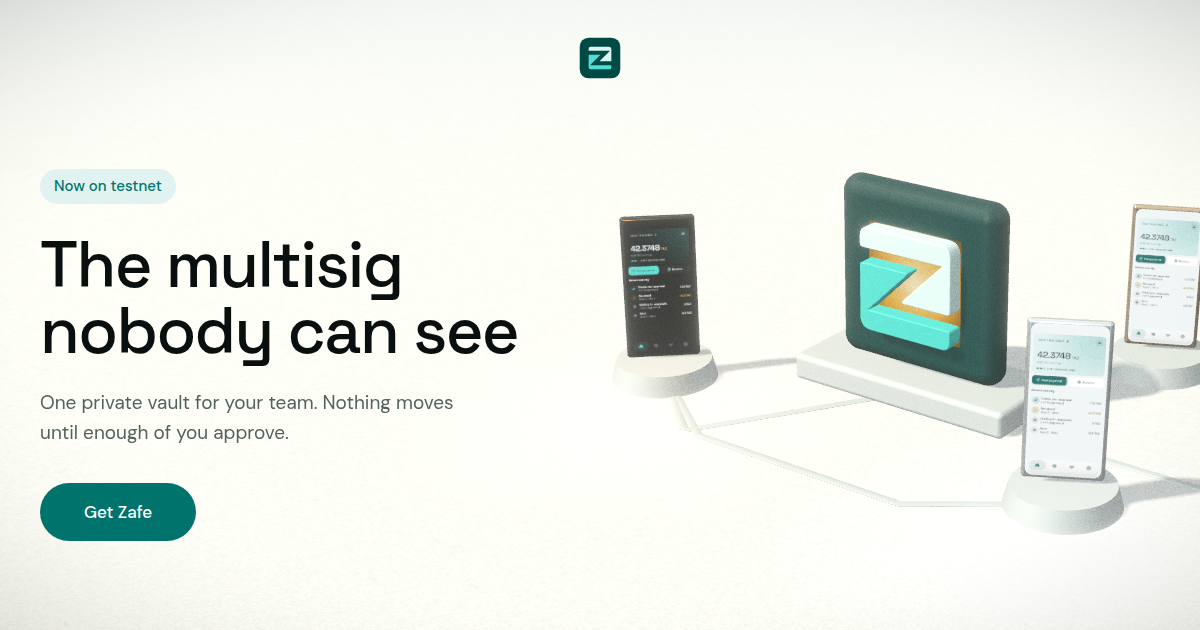
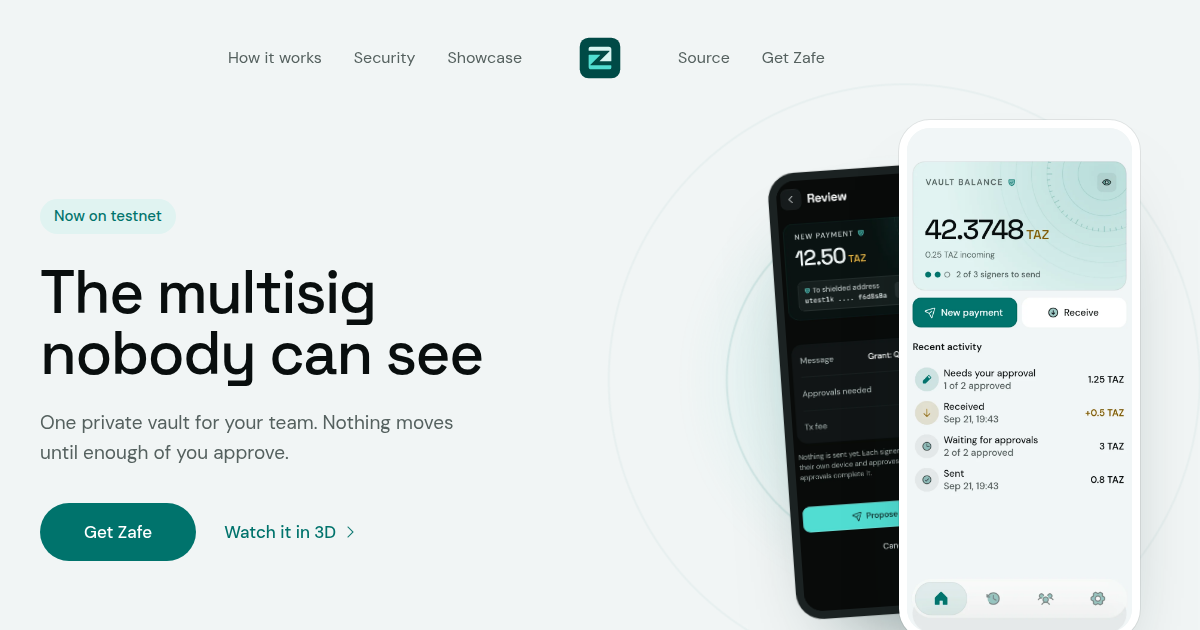
Site: round 12b, hero phones overlap at every width, new share image
The back phone hangs off the front one, so they never stand side by
side; og.png is the home hero; phone fixes for the teaser and the
comparison; teal only for Zafe's column.

diff --git a/infra/site/src/styles/site.css b/infra/site/src/styles/site.css
@@ -1013,7 +1013,9 @@ html.still-page .home .nav-side { visibility: hidden !important; }
 .lp-more .icon { width: 16px; height: 16px; transition: transform 0.2s var(--rise, ease); }
 .lp-more:hover .icon { transform: translateX(3px); }
 
-.lp-hero-art { position: relative; height: min(680px, calc(100vh - 160px)); min-height: 520px; }
+/* --ph is the front phone's height; the back phone hangs off it, so the overlap is the
+   same at every width (never two phones side by side). */
+.lp-hero-art { --ph: clamp(520px, calc(100vh - 160px), 680px); position: relative; height: var(--ph); }
 .lp-dial {
   position: absolute;
   left: 50%;
@@ -1028,9 +1030,9 @@ html.still-page .home .nav-side { visibility: hidden !important; }
   -webkit-mask-image: radial-gradient(circle, #000 30%, transparent 68%);
   mask-image: radial-gradient(circle, #000 30%, transparent 68%);
 }
-.lp-hero-art .lp-phone { position: absolute; height: 100%; width: auto; }
-.lp-phone-front { right: 4%; top: 0; z-index: 1; }
-.lp-phone-back { left: 2%; top: 9%; height: 86% !important; opacity: 0.96; }
+.lp-hero-art .lp-phone { position: absolute; width: auto; }
+.lp-phone-front { right: 4%; top: 0; height: var(--ph); z-index: 1; }
+.lp-phone-back { right: calc(4% + var(--ph) * 0.29); top: 9%; height: calc(var(--ph) * 0.86); rotate: -4deg; }
 
 /* At a glance: facts, not numbers we don't have. */
 .lp-facts {
@@ -1184,7 +1186,8 @@ html.still-page .home .nav-side { visibility: hidden !important; }
 .lp-compare .us { background: #E0F3F1; }
 .lp-compare thead .us { color: var(--brand); font-family: var(--display); font-size: 20px; border-radius: 20px 20px 0 0; }
 .lp-compare tbody tr:last-child .us { border-radius: 0 0 20px 20px; }
-.lp-compare td.yes { color: var(--brand); font-weight: 500; }
+.lp-compare td.yes { color: var(--text); font-weight: 500; }
+.lp-compare td.us.yes { color: var(--brand); }
 .lp-compare td.no { color: var(--text-secondary); }
 .sr { position: absolute; width: 1px; height: 1px; overflow: hidden; clip-path: inset(50%); white-space: nowrap; }
 
@@ -1238,7 +1241,7 @@ html.still-page .home .nav-side { visibility: hidden !important; }
 
 @media (max-width: 900px) {
   .lp-hero { grid-template-columns: 1fr; padding: 40px 20px 56px; min-height: 0; gap: 24px; }
-  .lp-hero-art { height: 560px; min-height: 0; max-width: 460px; width: 100%; margin: 0 auto; }
+  .lp-hero-art { --ph: 560px; max-width: 460px; width: 100%; margin: 0 auto; }
   .lp-flow li { grid-template-columns: 1fr; padding: 48px 32px 0; gap: 8px; }
   .lp-flow li:nth-child(even) .lp-flow-copy { order: 0; }
   .lp-flow-art { height: 440px; padding-top: 32px; }
@@ -1255,7 +1258,7 @@ html.still-page .home .nav-side { visibility: hidden !important; }
 @media (max-width: 760px) {
   .lp-hero h1 { font-size: clamp(40px, 11vw, 52px); }
   .lp-hero .sub { font-size: 17px; }
-  .lp-hero-art { height: 480px; }
+  .lp-hero-art { --ph: 480px; }
   .lp-facts { padding: 22px 20px; display: grid; grid-template-columns: 1fr 1fr; gap: 16px 20px; font-size: 15px; }
   .lp-facts li { align-items: flex-start; }
   .lp-section { padding-top: 96px; }
@@ -1265,7 +1268,7 @@ html.still-page .home .nav-side { visibility: hidden !important; }
   .lp-flow-copy p { font-size: 16px; }
   .lp-flow-art { height: 380px; }
   .lp-flow-art .lp-phone { width: 260px; }
-  .lp-teaser { margin-top: 96px; border-radius: 28px; height: 540px; }
+  .lp-teaser { margin-top: 96px; border-radius: 28px; height: 440px; }
   .lp-teaser img { object-position: 50% 100%; }
   .lp-teaser-copy { left: 24px; right: 24px; top: 32px; }
   .lp-card { padding: 28px 24px; border-radius: 28px; }
@@ -1275,9 +1278,10 @@ html.still-page .home .nav-side { visibility: hidden !important; }
   .lp-cta-card { border-radius: 28px; padding: 0 24px; }
   .lp-cta-art { height: 300px; }
   .lp-cta-art .lp-phone { width: 240px; }
-  .lp-compare table { min-width: 0; font-size: 14px; table-layout: fixed; }
+  .lp-compare table { min-width: 0; font-size: 13px; table-layout: fixed; }
   .lp-compare th, .lp-compare td { padding: 14px 6px; }
-  .lp-compare tbody th { width: 40%; padding-left: 0; }
+  .lp-compare thead th:first-child { width: 40%; }
+  .lp-compare tbody th { padding-left: 0; font-size: 14px; line-height: 1.35; }
   .lp-compare thead th { font-size: 12px; }
   .lp-compare thead .us { font-size: 16px; }
 }

diff --git a/docs/site.md b/docs/site.md
@@ -3,6 +3,18 @@
 The landing page (`infra/site/src/pages/index.astro`) follows this brief. Keep it current
 when the page changes.
 
+## Round 12b (critique pass): the hero phones, the share image, phone details
+
+Found (ranked): at 1200 px the two hero phones stood side by side (the back one was
+placed from the left edge, so the overlap changed with the width: a rejected look); the
+share image `og.png` still showed the old showcase hero; on phones the showcase teaser
+had a tall empty band and the comparison's labels wrapped to four lines; competitors'
+"Yes" was teal, the colour kept for Zafe and actions. Fixed: the back phone hangs off
+the front one (`--ph`, the front phone's height; back at `right: 4% + 0.29 * --ph`,
+tilted -4°), so they overlap the same at every width; `og.png` is now the home hero at
+1200×630 (`stills.sh` captures it from `/` after the intro); teaser 440 px on phones;
+comparison label column 40% wide, competitors' "Yes" in text colour.
+
 ## Round 12a (critique pass): spacing and the showcase entrance
 
 Found (ranked): the showcase's scroll cue sat on the right phone's pedestal; on phones
